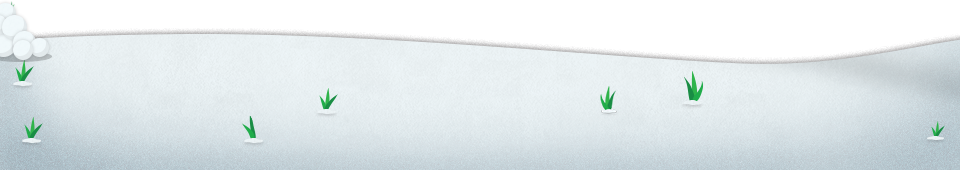
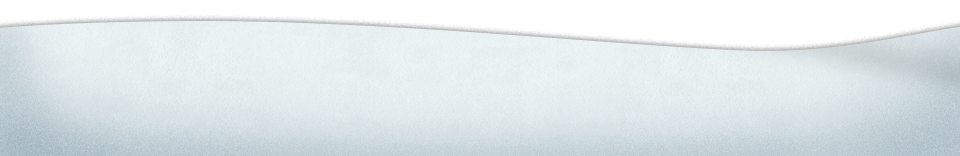
Added additional home screen assets

diff --git a/client-side/javascripts/views/home/HomeView.js b/client-side/javascripts/views/home/HomeView.js
@@ -34,13 +34,21 @@ var HomeView = View.extend({
       this.middleGround = Easel.createSprite('homeSprite', 'home-ground-middle', { x: 232, y: 440 }),
       this.frontGround  = Easel.createSprite('homeSprite', 'home-ground-front', { x: 0, y: 437 }),
 
-      this.bigEShadow   = Easel.createSprite('homeSprite', 'home-shadow-E', { x: 258, y: 489 }),
+      this.bigEShadow   = Easel.createSprite('homeSprite', 'home-shadow-E', { x: 257, y: 485 }),
       this.bigE         = Easel.createSprite('homeSprite', 'home-text-E-w-drift', { x: 310, y: 126 }),
       this.worldWar     = Easel.createSprite('homeSprite', 'home-title-ww', { x: 222, y: 58 }),
       this.elf          = Easel.createSprite('homeSprite', 'home-elf', { x: 625, y: 295 }),
 
-      this.playBtn      = Easel.createSprite('home-btn-play', 0, { x: 320, y: 500 }),
-      this.scoreBtn     = Easel.createSprite('home-btn-score', 0, { x: 18, y: 510 } ),
+      this.playBtnShadow   = Easel.createSprite('homeSprite', 'home-btn-play-shadow', { x: 314, y: 526 } ),
+      this.playBtn         = Easel.createSprite('home-btn-play', 0, { x: 317, y: 464 }),
+      this.playBtnSnow     = Easel.createSprite('homeSprite', 'home-btn-play-snow', { x: 335, y: 524 } ),
+
+      this.scoreBtnShadow   = Easel.createSprite('homeSprite', 'home-btn-scores-shadow', { x: 21, y: 553 } ),
+      this.scoreBtn         = Easel.createSprite('home-btn-score', 0, { x: 18, y: 510 } ),
+      this.scoreBtnSnow     = Easel.createSprite('homeSprite', 'home-btn-scores-snow', { x: 41, y: 557 } ),
+
+
+      this.grassSprouts = Easel.createSprite('homeSprite', 'home-grass-sprouts', { x: 7, y: 486 }),
     ]
 
     //Easel.dragObject( this.children )
@@ -65,25 +73,27 @@ var HomeView = View.extend({
 
 
   _onBtnOver: function (event) {
-    Easel.animateOnce( event.currentTarget, 'over' )
+    //Easel.animateOnce( event.currentTarget, 'over' )
+    event.currentTarget.gotoAndStop(10)
   },
 
 
 
   _onBtnOut: function (event) {
-    Easel.animateOnce( event.currentTarget, 'out' )
+    //Easel.animateOnce( event.currentTarget, 'out' )
+    event.currentTarget.gotoAndStop(0)
   },
 
 
 
   _onPlayBtnClick: function (event) {
-    window.location.href ='#/sync'
+    //window.location.href ='#/sync'
   },
 
 
 
   _onScoreBtnClick: function (event) {
-    window.location.href ='#/sync'
+    //window.location.href ='#/sync'
   }
 
 

diff --git a/client-side/javascripts/config/Assets.js b/client-side/javascripts/config/Assets.js
@@ -29,17 +29,18 @@ var Assets = {
         "images": [path + "spritesheets/sprites-home.png"],
         "frames": [
 
-            [898, 251, 277, 21],
-            [1177, 251, 258, 18],
-            [667, 251, 229, 22],
-            [1186, 227, 199, 13],
-            [355, 2, 310, 284],
-            [355, 288, 554, 120],
-            [667, 2, 960, 170],
-            [911, 274, 740, 131],
-            [1186, 174, 413, 51],
-            [2, 2, 351, 408],
-            [667, 174, 517, 75]
+            [1317, 288, 300, 24],
+            [1317, 338, 258, 18],
+            [1317, 314, 229, 22],
+            [1317, 358, 199, 13],
+            [1317, 2, 310, 284],
+            [2, 293, 693, 87],
+            [2, 382, 554, 120],
+            [2, 2, 960, 156],
+            [2, 160, 740, 131],
+            [1077, 412, 413, 51],
+            [964, 2, 351, 408],
+            [558, 412, 517, 75]
         ],
         "animations": {
 
@@ -48,12 +49,13 @@ var Assets = {
                 "home-btn-scores-shadow":[2],
                 "home-btn-scores-snow":[3],
                 "home-elf":[4],
-                "home-ground-back":[5],
-                "home-ground-front":[6],
-                "home-ground-middle":[7],
-                "home-shadow-E":[8],
-                "home-text-E-w-drift":[9],
-                "home-title-ww":[10]
+                "home-grass-sprouts":[5],
+                "home-ground-back":[6],
+                "home-ground-front":[7],
+                "home-ground-middle":[8],
+                "home-shadow-E":[9],
+                "home-text-E-w-drift":[10],
+                "home-title-ww":[11]
         },
         "frequency": 12
       }
